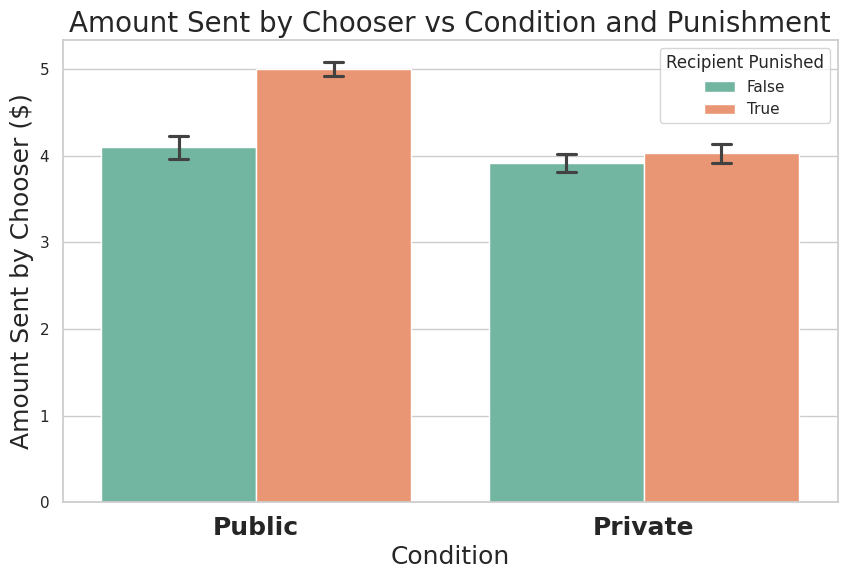
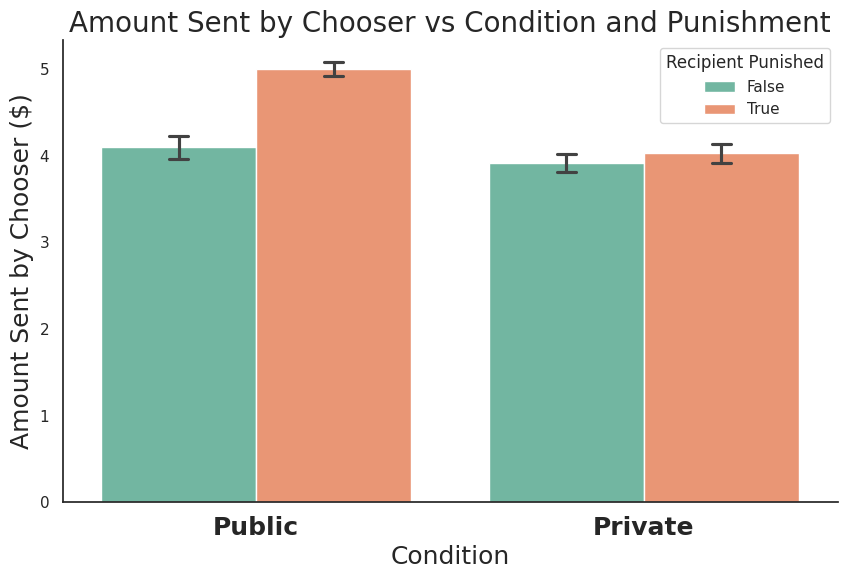
New plots

diff --git a/results/plot_results.py b/results/plot_results.py
@@ -75,19 +75,9 @@ def analyze_experiments(experiments: List[Dict]):
 def create_plots(data: pd.DataFrame, save_dir: pathlib.Path):
     """Create and save all plots."""
     # Set seaborn style and palette
-    sns.set_theme(style="whitegrid")
+    sns.set_theme(style="white")
     colors = sns.color_palette("Set2")
     
-    # # 1. Percentage of signallers that punished
-    # plt.figure(figsize=(8, 6))
-    # punishment_pct = (data['signaller_punished'].mean() * 100)
-    # sns.barplot(x=['Punished'], y=[punishment_pct], color=colors[0])
-    # plt.ylabel('Percentage of Signallers (%)')
-    # plt.title('Percentage of Signallers Who Punished in Round 1')
-    # plt.ylim(0, 100)
-    # plt.savefig(save_dir / 'punishment_percentage.png', bbox_inches='tight')
-    # plt.close()
-
     # 1. Percentage of signallers that punished
     plt.figure(figsize=(4, 6))
     
@@ -107,6 +97,10 @@ def create_plots(data: pd.DataFrame, save_dir: pathlib.Path):
     ax.errorbar(0, punishment_pct, yerr=ci,
                 color='black', capsize=5, capthick=1)
     
+    # Despine top and right
+    sns.despine(top=True, right=True)
+    ax.grid(False)
+    
     # Set x-axis limits to make the bar appear thinner relative to plot
     plt.xlim(-2, 2)  # Extend x-axis on both sides
     
@@ -120,40 +114,103 @@ def create_plots(data: pd.DataFrame, save_dir: pathlib.Path):
     
     plt.savefig(save_dir / 'punishment_percentage.png', bbox_inches='tight', dpi=300)
     plt.close()
+
+    # 1.5 Comparison of punishment rates with/without personas
+    plt.figure(figsize=(6, 6))
+    
+    # Create comparison data
+    conditions = ['Without\nPersonas', 'With\nPersonas']
+    percentages = [100, punishment_pct]  # 100% for without personas
+    
+    # Calculate CI for with personas (same as before)
+    n = len(data)
+    se = np.sqrt((punishment_pct/100 * (1 - punishment_pct/100)) / n)
+    ci = 1.96 * se * 100
+    
+    # Create error bars array (no error bar for without personas condition)
+    yerr = np.array([[0, ci]])  # [[lower errors], [upper errors]]
+    
+    # Create bar plot
+    ax = sns.barplot(x=conditions, y=percentages,
+                    palette=[colors[4], colors[4]],  # Different colors for comparison
+                    width=0.7,
+                    capsize=0.1)
+    
+    # Add error bars manually (only for with personas condition)
+    ax.errorbar(1, percentages[1], yerr=ci,
+               color='black', capsize=5, capthick=1)
+    
+    # Despine and remove grid
+    sns.despine(top=True, right=True)
+    ax.grid(False)
+    
+    # Customize aesthetics
+    plt.ylabel('Percentage of Signallers Who Punished (%)', fontsize=14)
+    plt.xlabel('')
+    plt.xticks(fontsize=16, fontweight='bold')
+    plt.yticks(fontsize=16)
+    plt.title('Punishment Rate Comparison', fontsize=24, pad=20)
+    plt.ylim(0, 100)
+    
+    """ # Add exact percentages on top of bars
+    for i, pct in enumerate(percentages):
+        ax.text(i, pct + 2, f'{pct:.1f}%', 
+                ha='center', va='bottom', fontsize=14, fontweight='bold') """
+    
+    plt.savefig(save_dir / 'punishment_percentage_comparison.png', bbox_inches='tight', dpi=300)
+    plt.close()
     
     # 2. Average money sent by Chooser based on whether recipient (as signaller) punished
     plt.figure(figsize=(8, 6))
-    sns.barplot(data=data, x='signaller_punished', y='chooser_amount', 
-                errorbar='se', capsize=0.1, palette=colors[:2])
-    plt.xticks([0, 1], ['Did Not Punish\nas Signaller', 'Punished\nas Signaller'])
-    plt.xlabel('Recipient\'s Previous Punishment Decision')
-    plt.ylabel('Amount Sent by Chooser ($)')
-    plt.title('Amount Sent by Chooser vs Recipient\'s Previous Punishment')
+    ax = sns.barplot(data=data, x='signaller_punished', y='chooser_amount', 
+                    errorbar='se', capsize=0.1, palette=colors[:2])
+    
+    # Despine top and right
+    sns.despine(top=True, right=True)
+    ax.grid(False)
+    
+    plt.xticks([0, 1], ['Did Not Punish\nas Signaller', 'Punished\nas Signaller'], fontsize=16, fontweight='bold')
+    plt.xlabel('Recipient\'s Previous Punishment Decision', fontsize=16)
+    plt.ylabel('Amount Sent by Chooser ($)', fontsize=16)
+    plt.title('Amount Sent by Chooser vs Recipient\'s Previous Punishment', fontsize=16)
+    
     plt.savefig(save_dir / 'chooser_amounts.png', bbox_inches='tight')
     plt.close()
     
     # 3. Return percentage based on whether recipient (as signaller) punished
     plt.figure(figsize=(8, 6))
-    sns.barplot(data=data, x='signaller_punished', y='return_percentage',
-                errorbar='se', capsize=0.1, palette=colors[:2])
-    plt.xticks([0, 1], ['Did Not Punish\nas Signaller', 'Punished\nas Signaller'])
-    plt.xlabel('Recipient\'s Previous Punishment Decision')
-    plt.ylabel('Percentage of Tripled Amount Returned (%)')
-    plt.title('Return Percentage vs Recipient\'s Previous Punishment')
+    ax = sns.barplot(data=data, x='signaller_punished', y='return_percentage',
+                    errorbar='se', capsize=0.1, palette=colors[:2])
+    
+    # Despine top and right
+    sns.despine(top=True, right=True)
+    ax.grid(False)
+    
+    plt.xticks([0, 1], ['Did Not Punish\nas Signaller', 'Punished\nas Signaller'], fontsize=16, fontweight='bold')
+    plt.xlabel('Recipient\'s Previous Punishment Decision', fontsize=16)
+    plt.ylabel('Percentage of Tripled Amount Returned (%)', fontsize=16)
+    plt.title('Return Percentage vs Recipient\'s Previous Punishment', fontsize=16)
+    
     plt.savefig(save_dir / 'return_percentages.png', bbox_inches='tight')
     plt.close()
     
     # 4. Return percentage vs received amount scatter
     plt.figure(figsize=(10, 6))
-    sns.scatterplot(data=data, x='tripled_amount', y='return_percentage',
-                    hue='signaller_punished', style='signaller_punished',
-                    palette=colors[:2])
+    ax = sns.scatterplot(data=data, x='tripled_amount', y='return_percentage',
+                        hue='signaller_punished', style='signaller_punished',
+                        palette=colors[:2])
+    
+    # Despine top and right
+    sns.despine(top=True, right=True)
+    ax.grid(False)
+    
     plt.xlabel('Amount Received (Tripled Amount) ($)')
     plt.ylabel('Percentage Returned (%)')
     plt.title('Return Percentage vs Received Amount')
     # Update legend labels
     handles, _ = plt.gca().get_legend_handles_labels()
     plt.legend(handles, ['Did Not Punish as Signaller', 'Punished as Signaller'])
+    
     plt.savefig(save_dir / 'return_vs_received.png', bbox_inches='tight')
     plt.close()
 

diff --git a/results/plot_public_vs_private.py b/results/plot_public_vs_private.py
@@ -71,7 +71,7 @@ def analyze_experiments(experiments: List[Dict]):
 
 def create_plots(data: pd.DataFrame, save_dir: pathlib.Path):
     """Create and save all plots comparing public vs private conditions."""
-    sns.set_theme(style="whitegrid")
+    sns.set_theme(style="white")
     colors = sns.color_palette("Set2")
     
     # # 1. Percentage of signallers that punished by condition
@@ -115,6 +115,10 @@ def create_plots(data: pd.DataFrame, save_dir: pathlib.Path):
     for i, row in plot_data.iterrows():
         ax.errorbar(i, row['mean'], yerr=row['ci'], 
                    color='black', capsize=5, capthick=1)
+
+    # Despine top and right
+    sns.despine(top=True, right=True)
+    ax.grid(False)
     
     plt.ylabel('Percentage of Signallers Who Punished (%)', fontsize=14)
     plt.xlabel('Condition', fontsize=18)
@@ -170,6 +174,11 @@ def create_plots(data: pd.DataFrame, save_dir: pathlib.Path):
     sns.barplot(data=data, x='condition', y='chooser_amount', 
                 hue='signaller_punished', palette=colors[:2],
                 errorbar='se', capsize=0.1)
+    
+    # Despine top and right
+    sns.despine(top=True, right=True)
+    ax.grid(False)
+    
     plt.xlabel('Condition', fontsize=18)
     plt.ylabel('Amount Sent by Chooser ($)', fontsize=18)
     plt.title('Amount Sent by Chooser vs Condition and Punishment', fontsize=20)
@@ -184,6 +193,11 @@ def create_plots(data: pd.DataFrame, save_dir: pathlib.Path):
     sns.barplot(data=data, x='condition', y='return_percentage',
                 hue='signaller_punished', palette=colors[:2],
                 errorbar='se', capsize=0.1)
+    
+    # Despine top and right
+    sns.despine(top=True, right=True)
+    ax.grid(False)
+    
     plt.xlabel('Condition')
     plt.ylabel('Percentage of Tripled Amount Returned (%)')
     plt.title('Return Percentage vs Condition and Punishment')
